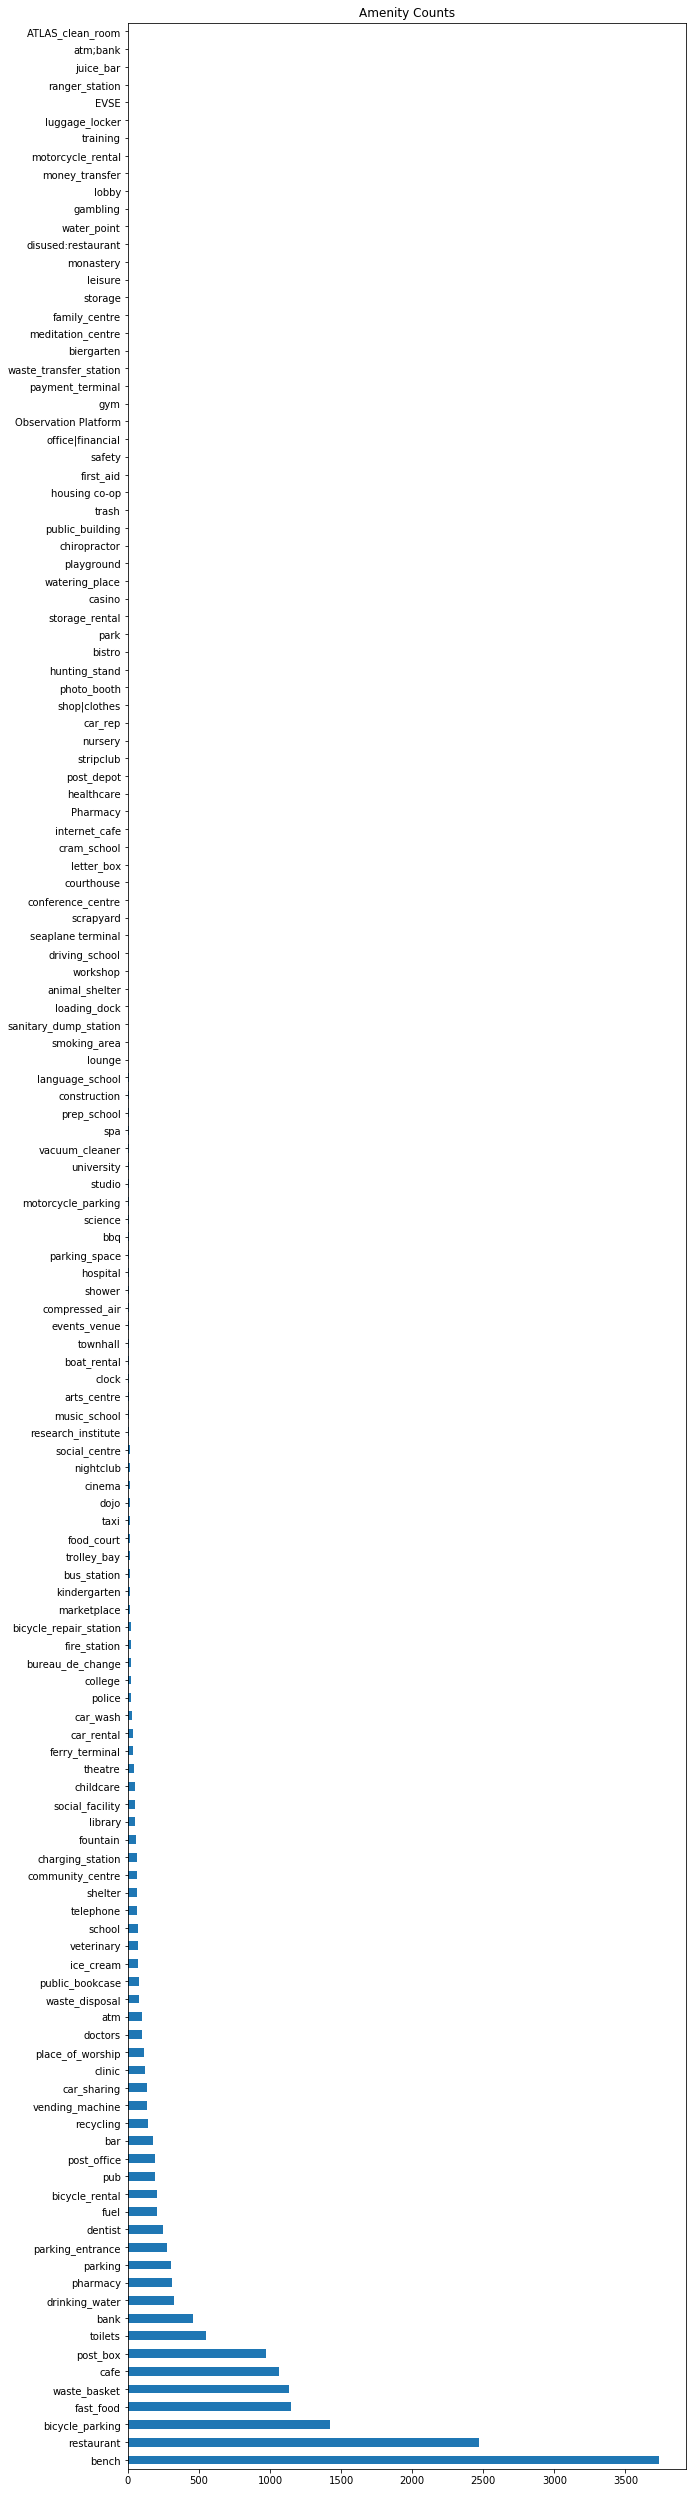
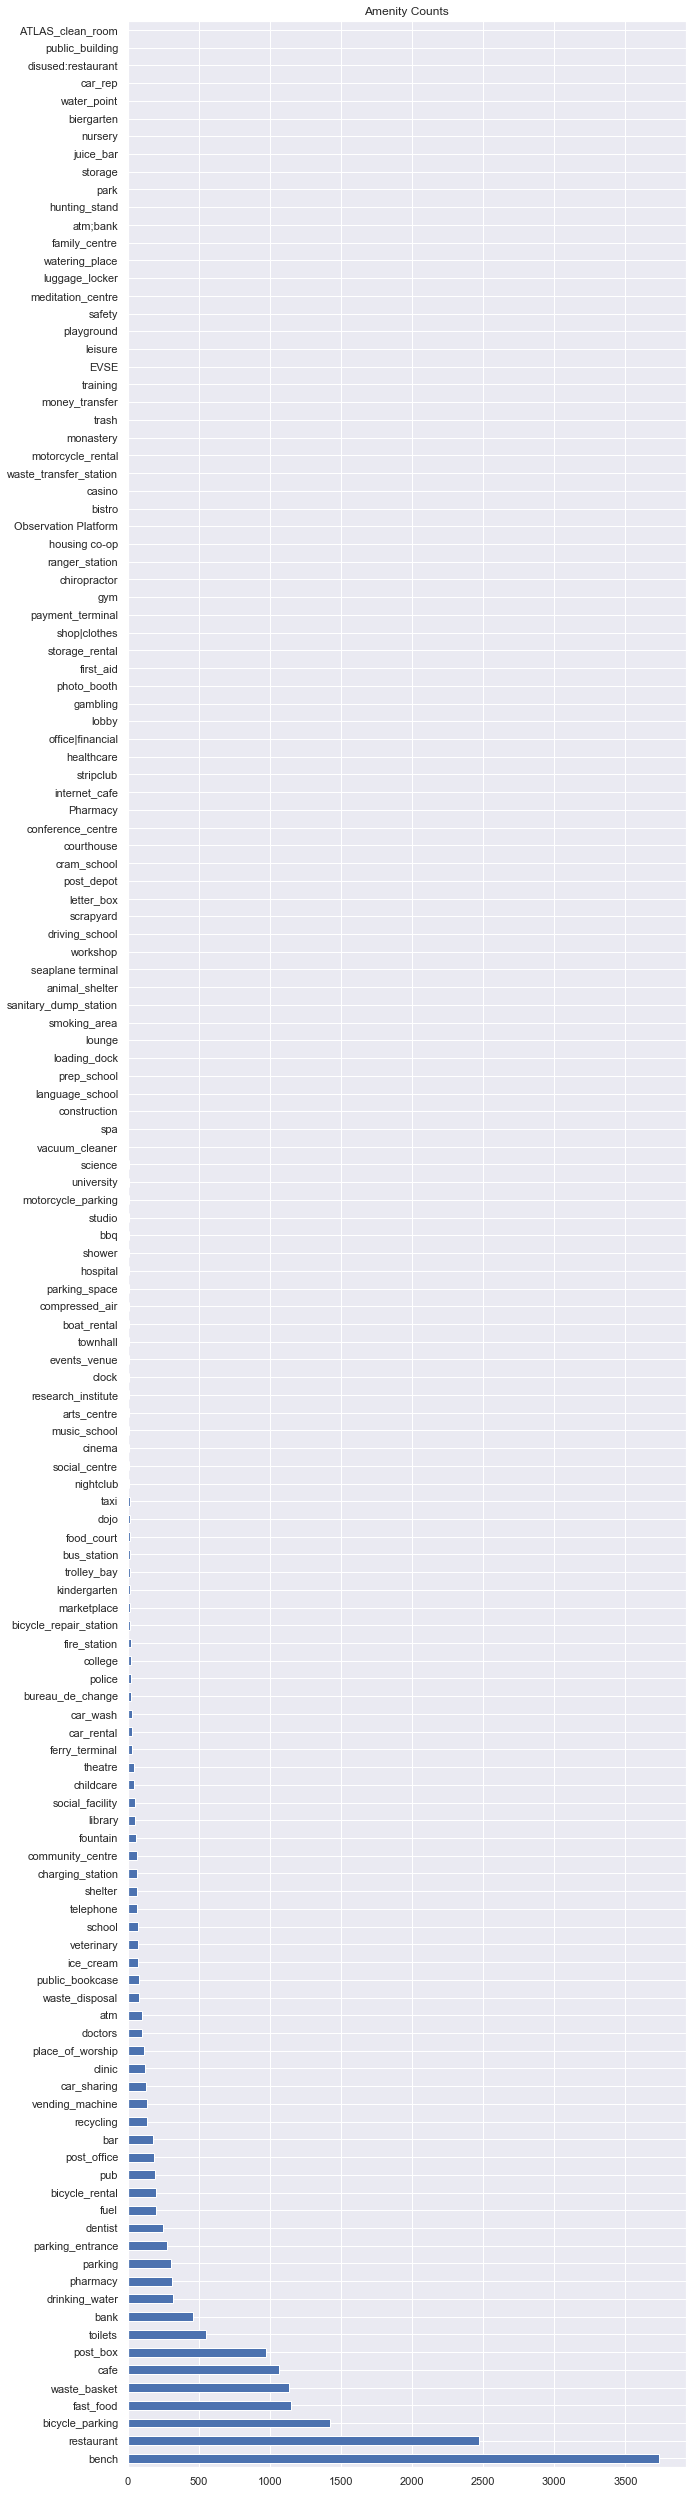
Signed-off-by: David <hwhuang@sfu.ca>

Changed region(s): [[0.0303, 0.0, 0.9408, 1.0], [0.5462, 0.0, 0.5766, 0.0309]]

diff --git a/data_exploration2.py b/data_exploration2.py
@@ -5,8 +5,10 @@ import sys
 import numpy as np
 import pandas as pd
 import matplotlib.pyplot as plt
+import seaborn
 from pykalman import KalmanFilter
 
+seaborn.set()
 
 # Reference: https://stackoverflow.com/questions/27928/calculate-distance-between-two-latitude-longitude-points-haversine-formula/21623206
 def distance(points):
@@ -25,9 +27,8 @@ def main():
     input_file = sys.argv[1]
     data = pd.read_json(input_file, lines = True)
     
-    
-    # take a look at all the amenities
     data2 = data[['name', 'amenity', 'tags']]
+    #print(data2)
 
     # generate amenity graph for complete data set
     #pd.value_counts(data['amenity']).plot.barh(figsize=(10,45), title='Amenity Counts')
@@ -35,24 +36,14 @@ def main():
     # Food amenities: 
     food = data2[data2['amenity'].str.contains("restaurant|food|cafe|pub|bar|ice_cream|food_court|bbq|bistro") & ~data2['amenity'].str.contains("disused")]
     food = food.dropna()
-    print(food)
     
-    # Large chain restaurants: 
+    # Large chain restaurants
     brand = food[food.apply(lambda x: 'brand' in x['tags'], axis = 1)]
-    print(brand)
     pd.value_counts(brand['name']).plot.barh(figsize=(10,25), title='Counts for Chain Restaurants')
 
     # Non-chain restaurants:
     nobrand = food[food.apply(lambda x: 'brand' not in x['tags'], axis = 1)]
-    print(nobrand)
-    #pd.value_counts(nobrand['name']).plot.barh(figsize=(15,30), title='Counts for Non-Chain Restaurants')
     
-
-    # other code to help visualize data
-    print(data.dtypes)
-    
-    #unique = data['amenity'].unique()
-    #print(unique.size)
 
 if __name__ == '__main__':
     main()
